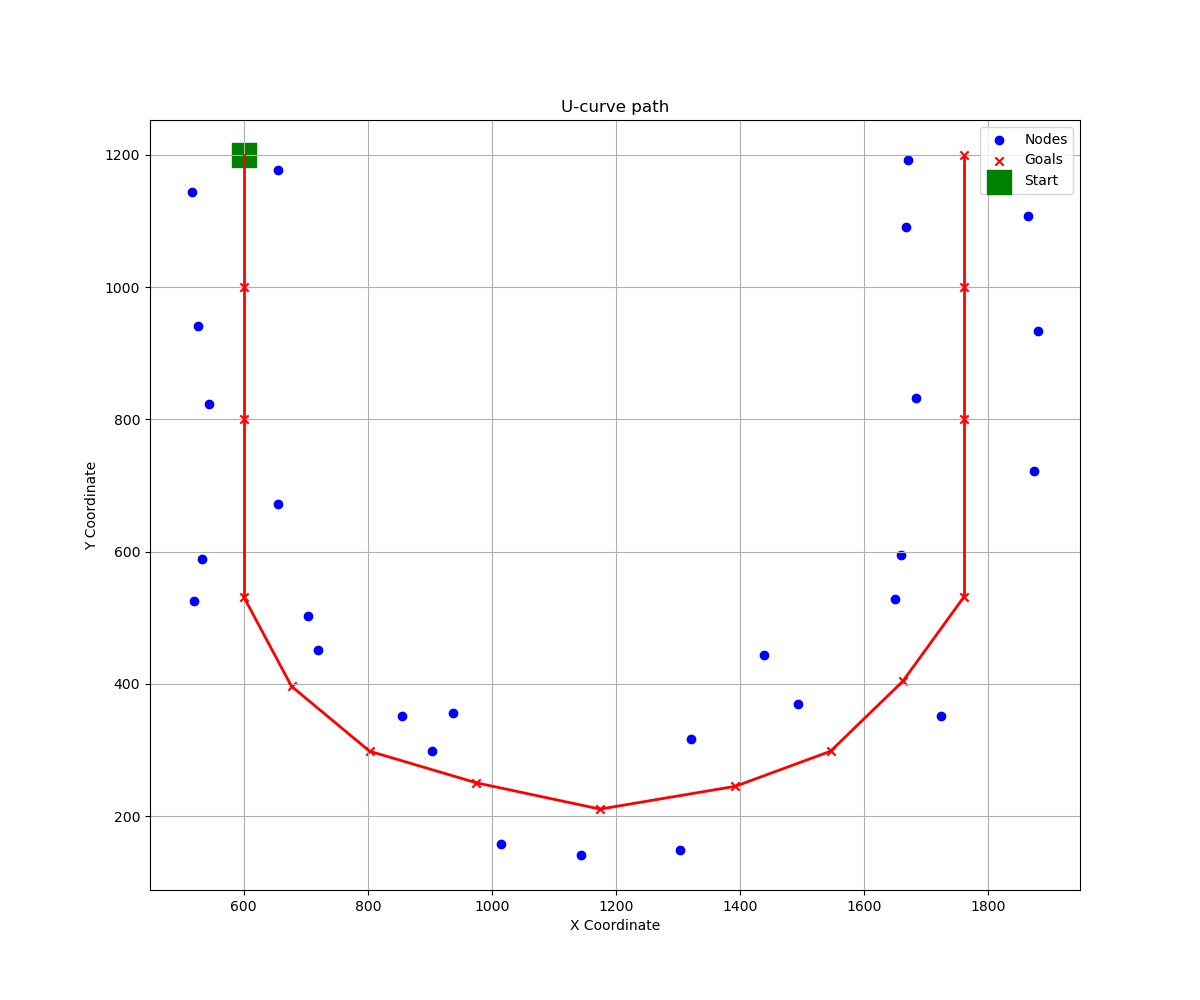
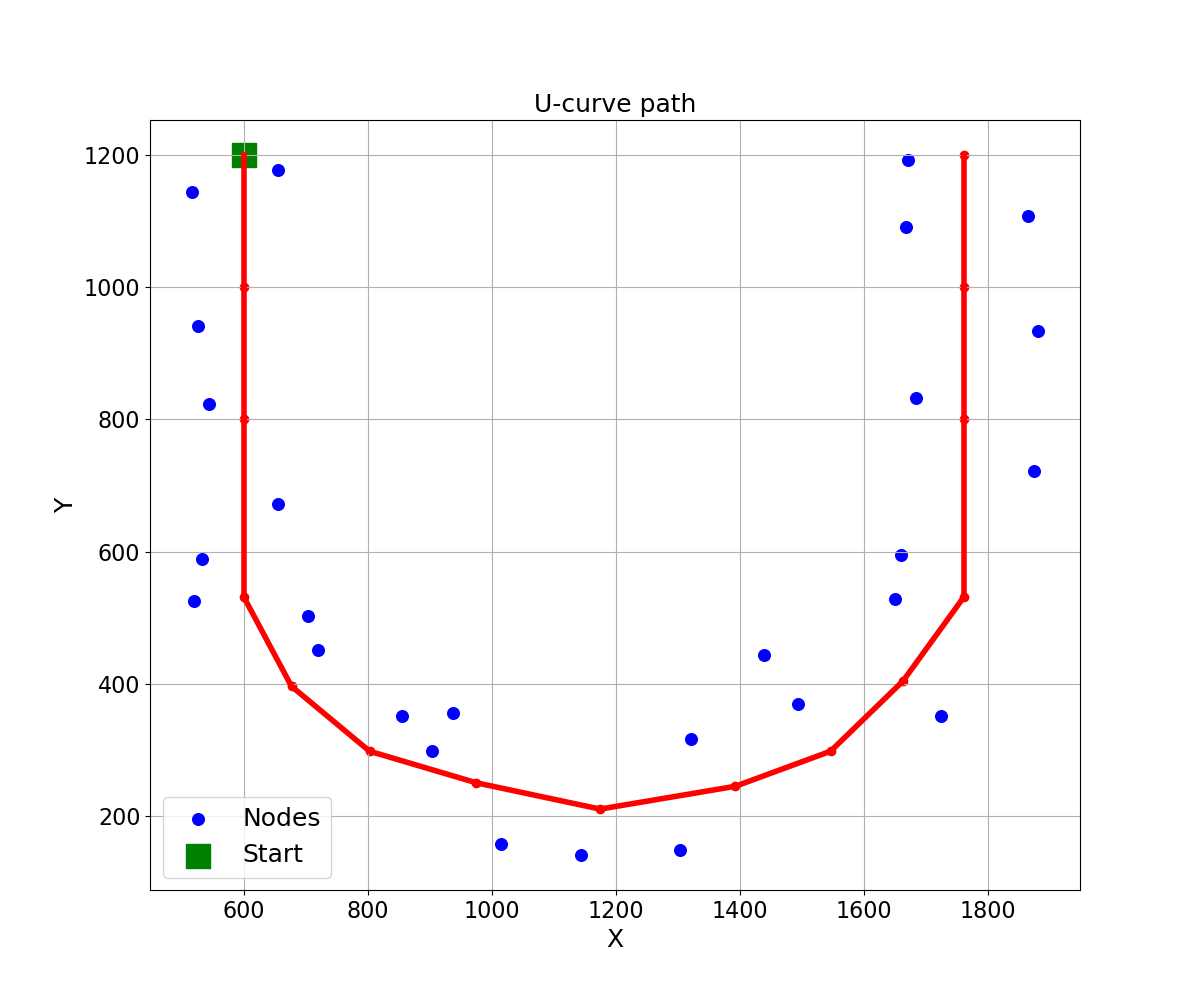
update planner

diff --git a/plot.py b/plot.py
@@ -120,27 +120,28 @@ class TrajectoryPlotter:
             tasks_x, tasks_y, tasks_z = [], [], []
 
         # Plot task positions
-        ax.scatter(tasks_x, tasks_y, tasks_z, c='b', marker='o', label='Tasks')
+        ax.scatter(tasks_x, tasks_y, tasks_z, c='b',s=70, marker='o')
 
         # Plot robot trajectory
         robot_x, robot_y, robot_z = zip(*self.robot_state[:, :3])
-        ax.plot(robot_x, robot_y, robot_z, c='r', linestyle='-', linewidth=2, label='Robot Trajectory')
+        ax.plot(robot_x, robot_y, robot_z, c='r', linestyle='-', linewidth=4)
 
         # Plot start and goal
-        ax.scatter(*self.start[:3], c='green', marker='s', s=100, label='Start')
-        ax.scatter(self.goals[:,0],self.goals[:,1],self.goals[:,2], c='red', marker='x', s=50, label='Goals')
+        ax.scatter(*self.start[:3], c='green', marker='s', s=300)
+        ax.scatter(self.goals[:,0],self.goals[:,1],self.goals[:,2], c='red', marker='x', s=70)
 
         for i, drone in enumerate(self.drones_info):
             drone_positions = drone["positions"]
             drone_x, drone_y, drone_z = zip(*[(pos[0], pos[1], pos[2]) for pos in drone_positions])
-            ax.plot(drone_x, drone_y, drone_z, linestyle='--', linewidth=1, label=f'Drone {i}', color=colors[i % len(colors)])
+            ax.plot(drone_x, drone_y, drone_z, linestyle='--', linewidth=2, label=f'Drone {i}', color=colors[i % len(colors)])
 
         # Set plot labels and legend
-        ax.set_xlabel('X-coordinate')
-        ax.set_ylabel('Y-coordinate')
-        ax.set_zlabel('Z-coordinate')
-        ax.set_title('Trajectory Plot')
-        ax.legend()
+        ax.set_xlabel('X',fontsize=18)
+        ax.set_ylabel('Y',fontsize=18)
+        ax.set_zlabel('Z',fontsize=18)
+        # ax.set_title('Trajectory Plot')
+        ax.tick_params(axis='both', labelsize=16)
+        ax.legend(fontsize=18, loc='upper left', bbox_to_anchor=(0.05, 1), borderaxespad=0.)
         ax.grid(True)
 
         # Change the viewpoint
@@ -151,19 +152,57 @@ class TrajectoryPlotter:
 
         plt.show()
 
+
+        ## 2D Plot (XY plane)
+        plt.figure(5)  # Create a new figure and subplot
+
+        # Plot task positions (2D)
+        plt.scatter(tasks_x, tasks_y, c='b', s=70, marker='o')
+
+        # Plot robot trajectory (2D)
+        plt.plot(robot_x, robot_y, c='r', linestyle='-', linewidth=4)
+
+        # Plot start and goal (2D)
+        plt.scatter(self.start[0], self.start[1], c='green', marker='s', s=300)
+        plt.scatter(self.goals[:, 0], self.goals[:, 1], c='red', marker='x', s=70)
+
+        # Plot drones' paths (2D)
+        for i, drone in enumerate(self.drones_info):
+            drone_positions = drone["positions"]
+            drone_x, drone_y = zip(*[(pos[0], pos[1]) for pos in drone_positions])  # 2D (XY only)
+            plt.plot(drone_x, drone_y, linestyle='--', linewidth=2, label=f'Drone {i}', color=colors[i % len(colors)])
+
+        # Set plot labels and legend (2D)
+        plt.xlabel('X',fontsize=18)
+        plt.ylabel('Y',fontsize=18)
+        # plt.set_title('2D XY Trajectory Plot')
+        plt.legend(fontsize=18)
+        plt.grid(True)
+        plt.xticks(fontsize = 16) 
+        plt.yticks(fontsize = 16) 
+
+        # Show plot
+        plt.show()
+
+        # Save the figure if needed
+        if save_file:
+            plt.savefig('droneline_2d.png')
+
         # plot for drones battery
         plt.figure(3)
         for i, drone in enumerate(self.drones_info):
             drone_battery = drone["battery"]  # Assuming this is a list of battery levels over time
             time_steps = range(len(drone_battery))  # Create a list of time steps
-            plt.plot(time_steps, drone_battery, linestyle='-', linewidth=2, label=f'Drone {i}', color=colors[i % len(colors)])
+            plt.plot(time_steps, drone_battery, linestyle='-', linewidth=4, label=f'Drone {i}', color=colors[i % len(colors)])
 
         # Set plot labels and legend
-        plt.xlabel('Time step')
-        plt.ylabel('Drone battery state (%)')
-        plt.title('Drones Battery Log')
-        plt.legend()
+        plt.xlabel('Time step',fontsize=18)
+        plt.ylabel('Drone battery state (%)',fontsize=18)
+        plt.title('Drones Battery Log',fontsize=18)
+        plt.legend(fontsize=18)
         plt.grid(True)
+        plt.xticks(fontsize = 16) 
+        plt.yticks(fontsize = 16) 
 
         if filename2 and save_file:
             plt.savefig(filename2)
@@ -176,10 +215,12 @@ class TrajectoryPlotter:
         timesteps = range(len(robot_vel))
         plt.plot(timesteps, robot_vel, linestyle='-', linewidth=2, label=f'GV_vel')
 
-        plt.xlabel('Time step')
-        plt.ylabel('Velocity of Ground Vehicle')
-        plt.legend()
+        plt.xlabel('Time step',fontsize=18)
+        plt.ylabel('Velocity of Ground Vehicle',fontsize=18)
+        plt.legend(fontsize=18)
         plt.grid(True)
+        plt.xticks(fontsize = 16) 
+        plt.yticks(fontsize = 16) 
 
         if filename and save_file:
             plt.savefig(filename)

diff --git a/test_data/draw.py b/test_data/draw.py
@@ -43,17 +43,17 @@ def read_and_plot(filename):
     plt.figure(figsize=(12, 10))
     
     # Plot nodes
-    plt.scatter(x_coords, y_coords, color='blue', label='Nodes')
+    plt.scatter(x_coords, y_coords, s=70,color='blue', label='Nodes')
     
     # Plot goals
-    plt.scatter(goal_x_coords, goal_y_coords, color='red', marker='x', label='Goals')
+    plt.scatter(goal_x_coords, goal_y_coords, color='red')
 
     # Connect goals with lines
     if len(goals) > 1:
         for i in range(len(goals) - 1):
             x_values = [goals[i][0], goals[i + 1][0]]
             y_values = [goals[i][1], goals[i + 1][1]]
-            plt.plot(x_values, y_values, color='red', linestyle='-', linewidth=2)
+            plt.plot(x_values, y_values, color='red', linestyle='-', linewidth=4)
 
     # Plot start goal as a green rectangle
     if goals:
@@ -61,11 +61,13 @@ def read_and_plot(filename):
         plt.scatter(start_goal[0], start_goal[1], color='green', marker='s', s=300, label='Start')
 
 
-    plt.xlabel('X Coordinate')
-    plt.ylabel('Y Coordinate')
-    plt.title('U-curve path')
-    plt.legend()
-    plt.grid(True)
+    plt.xlabel('X',fontsize=18)
+    plt.ylabel('Y',fontsize=18)
+    plt.title('U-curve path',fontsize=18)
+    plt.legend(fontsize=18)
+    plt.grid()
+    plt.xticks(fontsize = 16) 
+    plt.yticks(fontsize = 16) 
     plt.show()
 
 

diff --git a/robot.py b/robot.py
@@ -181,7 +181,9 @@ class DifferentialDriveRobot:
             # cummdis += -np.sign(self.task[pos_node[i]][3]) * np.linalg.norm(self.get_position()-route[i])
             cummdis += np.linalg.norm(self.get_position()-route[i])
         
-        if cummdis*(2*(len(route)-1)+1) < (uav_max_time*uav_avg_vel) and not self.at_goal:
+        # if cummdis*(2*(len(route)-1)+2*(robot_vmax/(uav_avg_vel-robot_vmax)+1)) < (uav_max_time*uav_avg_vel) and not self.at_goal:
+        if cummdis*(4+2*(robot_vmax/(uav_avg_vel-robot_vmax))) < (uav_max_time*uav_avg_vel) and not self.at_goal:
+            # print('Not enough to form a route')
             return []
         else:
             # if the route is large enough, publish it by apply tsp optimize first
@@ -190,7 +192,7 @@ class DifferentialDriveRobot:
                 self.finished_task = np.vstack([self.finished_task, self.task[i_pos]])
                 self.task = np.delete(self.task, i_pos, axis=0)
 
-                print('\n We assigned a task', self.finished_task[-1,-1], 'with the cummulative distance ', cummdis )
+                # print('\n We assigned a task', self.finished_task[-1,-1], 'with the cummulative distance ', cummdis )
 
             predict_p = probot+ttime*vrobot
             route, new_cost = tsp(route, predict_p)

diff --git a/config.py b/config.py
@@ -26,16 +26,17 @@ robot_vmax = 8              # average speed of GV, to set as normal speed (m/s)
 robot_vmin = 3              # minimum bound for GV speed
 robot_acceleration = 2      # 
 
-uav_max_time = 200          # maximum traveling time of each uav (second)
-# uav_min_range = 10        # minimum remaining battery that uav can consider taking new route
-uav_avg_vel = 15            # uav average velocity (m/s)
+uav_max_time = 15*60          # maximum traveling time of each uav (second)
+uav_avg_vel = 12            # uav average velocity (m/s)
 """Means that UAV can travel around uav_max_time*uav_avg_vel meters. Change that in case of small scenario"""
 
-epsilon = 3                 # allowed distance of controller (m)
+epsilon = 30                 # allowed distance of controller (m)
 
 num_drones = 3              # number of drone in simulation
 
 save_file = False
+
+filename = 'cir1.txt'
 
 class Environment:
     def __init__(self, filename):

diff --git a/main.py b/main.py
@@ -25,7 +25,7 @@ from plot import *
 # from robot_trajectory import *
 
 
-env = Environment('cir1.txt')
+env = Environment(filename)
 
 # define the robot
 robot = DifferentialDriveRobot(env.START[0],env.START[1],env.START[2],vmax=robot_vmax,sr=env.sensing_range)
@@ -85,7 +85,7 @@ def simulate_robot(dt, max_steps):
                 _drone.charge(env.uav_max_time)
 
                 # wait for charge until drone full of battery
-                if _drone.battery >= env.uav_max_time*0.8:
+                if _drone.battery >= env.uav_max_time:
                     _drone.state = DroneState.WAITING
 
             if _drone.state == DroneState.OUT_OF_CONTROL:
